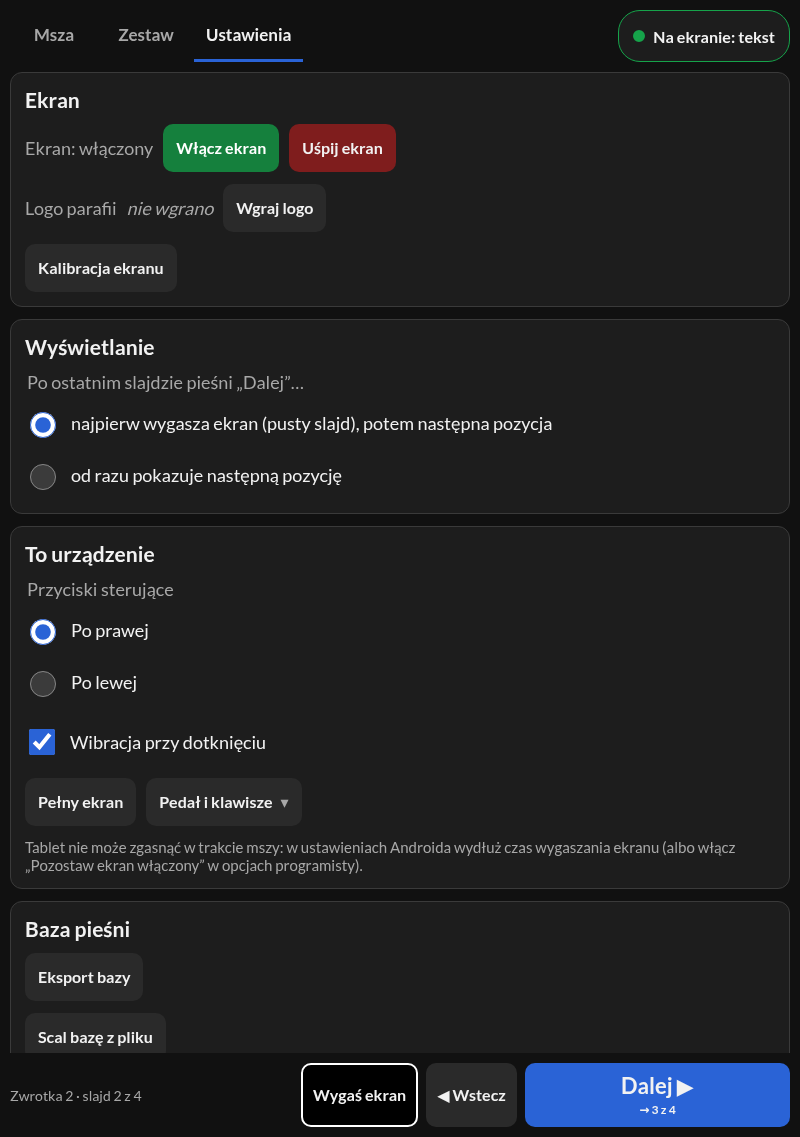
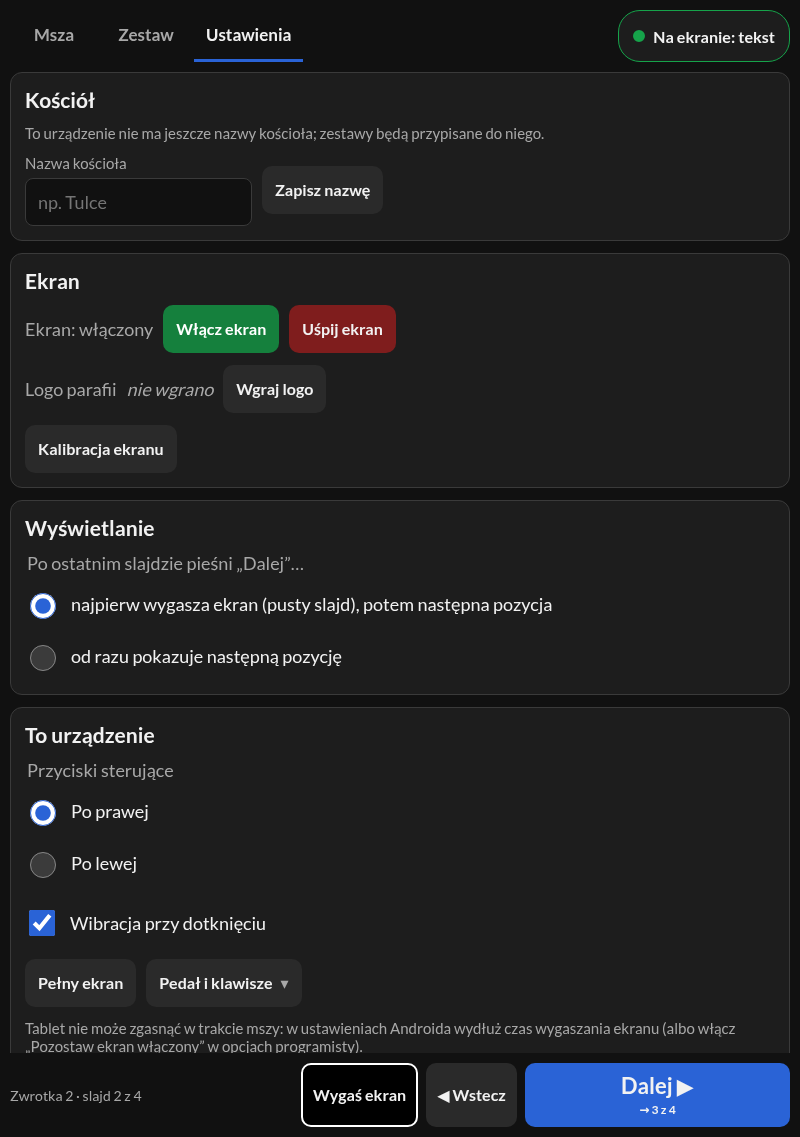
Explain synchronization in the operator guide
The guide gains a section on the library file: one kind of file in any
direction, what travels, which version is shown, reviews, deletions and
set dates; preparing sets at home and the Kościół setting are described
and the screenshots are new. In the remote, Ustawienia → Baza pieśni
becomes Synchronizacja with "Zapisz plik" and "Wczytaj plik", as the
sync plan's section 8 describes.

Changed region(s): [[0.0312, 0.0616, 0.9062, 0.7696], [0.0312, 0.8004, 0.9062, 0.9235]]

diff --git a/apps/remote/src/messages.rs b/apps/remote/src/messages.rs
@@ -316,8 +316,9 @@ pub fn pl(msg: Msg) -> &'static str {
         Msg::TabLive => "Msza",
         Msg::TabSongs => "Pieśni",
         Msg::LibraryHint => {
-            "Wyszukaj pieśń, żeby ją poprawić, albo dopisz nową. Gotową bazę zapisz \
-             w Ustawieniach (Eksport bazy) i scal na urządzeniu w kościele (Scal bazę z pliku)."
+            "Wyszukaj pieśń, żeby ją poprawić, albo dopisz nową. Gotowe pieśni i zestawy zapisz w \
+             pliku (Ustawienia → Synchronizacja → Zapisz plik) i wczytaj go na urządzeniu w kościele \
+             (Wczytaj plik)."
         }
         Msg::DiscardTitle => "Odrzucić zmiany?",
         Msg::DiscardHint => "Pieśń ma niezapisane zmiany. Po zamknięciu przepadną.",
@@ -344,7 +345,7 @@ pub fn pl(msg: Msg) -> &'static str {
         Msg::Line => "Linia",
         Msg::SectionDisplay => "Wyświetlanie",
         Msg::SectionDevice => "To urządzenie",
-        Msg::SectionLibrary => "Baza pieśni",
+        Msg::SectionLibrary => "Synchronizacja",
         Msg::SectionAbout => "O programie",
         Msg::EndOfItemLabel => "Po ostatnim slajdzie pieśni „Dalej”…",
         Msg::EndGap => "najpierw wygasza ekran (pusty slajd), potem następna pozycja",
@@ -496,7 +497,7 @@ pub fn pl(msg: Msg) -> &'static str {
         Msg::SetsOfChurch => "Zestawy kościoła",
         Msg::ChooseChurch => "Wybierz kościół",
         Msg::NoChurchesHere => {
-            "Wczytaj plik z kościoła (Ustawienia → Baza pieśni → Scal bazę z pliku), żeby przygotowywać \
+            "Wczytaj plik z kościoła (Ustawienia → Synchronizacja → Wczytaj plik), żeby przygotowywać \
              jego zestawy. Zestaw zrobiony przed wyborem kościoła pokaże się w każdym kościele."
         }
         Msg::SetReviewLine => "Ten zestaw zmieniono w dwóch miejscach. Porównaj wersje",
@@ -533,14 +534,14 @@ pub fn pl(msg: Msg) -> &'static str {
         Msg::InvalidPin => "PIN musi mieć od 6 do 12 cyfr",
         Msg::PinAlreadySet => "PIN został już ustawiony na innym urządzeniu – połącz się, wpisując go",
         Msg::ImportFailed => "Import nie powiódł się – czy to plik ZIP z folderem OpenSong?",
-        Msg::ExportLibrary => "Eksport bazy",
-        Msg::MergeLibrary => "Scal bazę z pliku",
+        Msg::ExportLibrary => "Zapisz plik",
+        Msg::MergeLibrary => "Wczytaj plik",
         Msg::MergeChecking => "Sprawdzanie pliku…",
-        Msg::MergeWouldDo => "Sprawdzono plik. Po scaleniu:",
-        Msg::MergeConfirm => "Scal",
-        Msg::Merging => "Scalanie…",
-        Msg::MergeDone => "Scalono.",
-        Msg::MergeFailed => "Scalanie nie powiodło się – czy to plik .sursum z tej wersji programu?",
+        Msg::MergeWouldDo => "Sprawdzono plik. Po wczytaniu:",
+        Msg::MergeConfirm => "Wczytaj",
+        Msg::Merging => "Wczytywanie…",
+        Msg::MergeDone => "Wczytano.",
+        Msg::MergeFailed => "Wczytanie nie powiodło się – czy to plik .sursum z tej wersji programu?",
         Msg::Calibrate => "Kalibracja ekranu",
         Msg::CalibrationTitle => "Kalibracja ekranu",
         Msg::CalibrationHelp => {

diff --git a/apps/remote/src/songs.rs b/apps/remote/src/songs.rs
@@ -1,7 +1,7 @@
 // SPDX-License-Identifier: GPL-3.0-or-later
 //! The Pieśni view of the desktop program's library (ADR 0020): there is no screen and no
 //! service at home, only songs. Search, open a song in the editor, or write a new one; the
-//! finished library goes to the church as a file (Ustawienia → Eksport bazy).
+//! finished library goes to the church as a file (Ustawienia → Synchronizacja → Zapisz plik).
 
 use leptos::prelude::*;
 use sursum_protocol::{RemoteState, SongSummary};

diff --git a/apps/remote/src/settings/library.rs b/apps/remote/src/settings/library.rs
@@ -1,6 +1,6 @@
 // SPDX-License-Identifier: GPL-3.0-or-later
-//! Baza pieśni: a copy of the whole library (any paired remote), merging another church's file
-//! and importing from OpenSong.
+//! Synchronizacja: the library file (songs, churches, every church's sets and their pictures,
+//! ADR 0025) to save and to load on another device, and importing from OpenSong.
 
 use leptos::prelude::*;
 

diff --git a/docs/operator-guide-pl.md b/docs/operator-guide-pl.md
@@ -132,10 +132,10 @@ Ref.
 - Kto zna OpenSong, może pisać jak dotąd: `[V1]`, `[C]`, `[B]`. Kolejność sekcji (np. `V1 C V2 C`)
   jest w części **Zaawansowane**.
 
-## Pieśni przygotowane w domu
+## Przygotowanie w domu
 
-Pieśni można przygotować na własnym komputerze z Windows (na Linuksie też działa) programem
-**Sursum** i przynieść je do kościoła w jednym pliku. Program działa bez internetu i bez
+Pieśni i zestawy można przygotować na własnym komputerze z Windows (na Linuksie też działa)
+programem **Sursum** i przynieść je do kościoła w jednym pliku. Program działa bez internetu i bez
 urządzenia z kościoła; nie wyświetla niczego na ekranie, służy do pieśni i zestawów.
 
 1. Pobierz plik `sursum-<wersja>-windows-x86_64.exe` (od osoby, która opiekuje się sursum w
@@ -150,33 +150,54 @@ urządzenia z kościoła; nie wyświetla niczego na ekranie, służy do pieśni 
    W zakładce Zestaw przygotujesz zestaw na mszę: najpierw w polu **Zestawy kościoła** wybierz
    kościół (program zna kościoły z plików wczytanych z kościoła), potem pracujesz jak na pilocie.
    Zestaw trafi do wybranego kościoła razem z plikiem; w drugim kościele będzie niewidoczny.
-4. Gdy skończysz: **Ustawienia → Baza pieśni → Eksport bazy**. Zapisz plik
+4. Gdy skończysz: **Ustawienia → Synchronizacja → Zapisz plik**. Zapisz plik
    `biblioteka.sursum` (np. na pendrive albo wyślij go sobie pocztą).
-5. W kościele, na pilocie: **Ustawienia → Baza pieśni → Scal bazę z pliku** i wybierz ten
-   plik. Najpierw zobaczysz, co się zmieni; dopiero **Scal** zapisuje. Ten sam plik można
-   wczytać wiele razy i nic się nie zdubluje. Jeśli tę samą pieśń zmieniono i w domu, i w
-   kościele, zostaje jedna pieśń: pokazana jest wersja, którą zmieniano więcej razy, a druga
-   czeka na przejrzenie (zobacz [Pieśni do przejrzenia](#pieśni-do-przejrzenia)).
+5. W kościele, na pilocie: **Ustawienia → Synchronizacja → Wczytaj plik** i wybierz ten plik.
+   Najpierw zobaczysz, co się zmieni; dopiero **Wczytaj** zapisuje (rozdział
+   [Synchronizacja](#synchronizacja)).
 
-Chcesz w domu poprawiać pieśni, które są już w kościele? Najpierw zrób **Eksport bazy** na
-pilocie w kościele i **Scal bazę z pliku** w programie w domu; wtedy masz w domu te same pieśni.
+Chcesz w domu poprawiać pieśni albo zestawy, które są już w kościele? Najpierw **Zapisz plik**
+na pilocie w kościele i **Wczytaj plik** w programie w domu; wtedy masz w domu to samo co w
+kościele.
 
 Pieśni w domu leżą w folderze `%LOCALAPPDATA%\sursum` (na Linuksie `~/.local/share/sursum`).
 Program może być uruchomiony tylko raz; jeśli drugie okno mówi „Sursum jest już uruchomiony”,
 poszukaj pierwszego okna na pasku zadań. Gdy coś nie działa, przyda się plik `sursum.log` z
 tego folderu.
 
+## Synchronizacja
+
+Każde urządzenie (w Tulcach, w Gowarzewie, program w domu) ma własną bazę pieśni i zestawów.
+Między nimi wędruje jeden rodzaj pliku, `biblioteka.sursum`: **Zapisz plik** na jednym
+urządzeniu, **Wczytaj plik** na drugim. Kierunek i kolejność są dowolne, a ten sam plik można
+wczytać wiele razy.
+
+- W pliku są wszystkie pieśni, kościoły parafii, zestawy wszystkich kościołów i ich obrazy.
+  Urządzenie w kościele pokazuje tylko zestawy swojego kościoła; zestawy drugiego kościoła
+  przechowuje, żeby przekazać je dalej.
+- Przed zapisem pilot pokazuje, co się zmieni: nowe i zmienione pieśni, zestawy tego kościoła,
+  nowe obrazy. Dopiero **Wczytaj** zapisuje; urządzenie robi przedtem kopię swojej bazy.
+- Nic się nie dubluje. Pieśń poprawiona w jednym miejscu jest po wczytaniu poprawiona wszędzie.
+  Starszy plik niczego nie cofa i nie przywraca usuniętej pieśni ani zestawu.
+- Usunięcie wędruje jak każda zmiana, ale nie zabiera ze sobą poprawki zrobionej w tym czasie
+  gdzie indziej: taka pieśń zostaje.
+- Gdy tę samą pieśń albo ten sam zestaw zmieniono w dwóch miejscach, zostaje jeden: wszędzie
+  pokazywana jest wersja zmieniana więcej razy, a druga czeka na przejrzenie (niżej).
+- Wczytanie pliku nigdy nie zmienia tego, co jest na ekranie, ani nie przełącza zestawu.
+- Każdy zestaw ma datę mszy (można ją pominąć: wtedy jest szkicem na górze listy). Lista
+  zestawów jest uporządkowana według tej daty, tak samo na każdym urządzeniu.
+
 ## Pieśni do przejrzenia
 
-Gdy tę samą pieśń zmieniono w dwóch miejscach (np. w domu i w kościele), po scaleniu pliku
+Gdy tę samą pieśń zmieniono w dwóch miejscach (np. w domu i w kościele), po wczytaniu pliku
 zostaje jedna pieśń. Wszędzie pokazywana jest wersja zmieniana więcej razy, a druga czeka na
 decyzję. W zakładce **Zestaw** (w programie na komputerze: **Pieśni**) pojawia się wtedy żółty
 napis **Pieśni do przejrzenia: 1**, a w wynikach wyszukiwania znaczek „do przejrzenia”.
 
 Dotknij napisu, wybierz pieśń i porównaj obie wersje. **Zostaw tę** pod wybraną wersją kończy
 przegląd: ta wersja zostaje, druga znika. Jeśli każda wersja ma coś dobrego, zostaw jedną i
-popraw ją potem w edytorze. Do następnego scalenia przegląd obowiązuje tylko na tym urządzeniu;
-po wymianie pliku znika też w drugim kościele. Przeglądu nie trzeba robić od razu: do tego czasu
+popraw ją potem w edytorze. Do następnej wymiany pliku przegląd obowiązuje tylko na tym
+urządzeniu; potem znika też w drugim kościele. Przeglądu nie trzeba robić od razu: do tego czasu
 oba kościoły pokazują ten sam tekst.
 
 Tak samo z zestawem zmienionym w dwóch miejscach (np. w domu i w kościele w czasie mszy):
@@ -210,13 +231,15 @@ spróbuj za chwilę”). To normalne.
 
 ![Zakładka Ustawienia](images/remote/tablet-ustawienia.png)
 
+- **Kościół**: nazwa kościoła tego urządzenia (zestawy urządzenia należą do niego) i, jeśli
+  inne urządzenie wpisało tę nazwę inaczej, wybór kościoła znanego z pliku.
 - **Ekran**: zasilanie projektora lub monitora, **Logo parafii**, **Kalibracja ekranu**.
 - **Wyświetlanie**: czy po ostatnim slajdzie pieśni najpierw jest pusty ekran (domyślnie), czy od
   razu następna pozycja. Dotyczy wszystkich pilotów.
 - **To urządzenie**: strona przycisków (prawa lub lewa), wibracja, **Pełny ekran** (chowa paski
   przeglądarki), **Pedał i klawisze**.
-- **Baza pieśni**: **Eksport bazy** (same pieśni, do wymiany z drugim kościołem), **Scal bazę
-  z pliku**, **Import z OpenSong (ZIP)**.
+- **Synchronizacja**: **Zapisz plik** i **Wczytaj plik** (pieśni i zestawy, do wymiany z drugim
+  kościołem i z programem w domu), **Import z OpenSong (ZIP)**.
 - **Dane urządzenia**: **Pobierz kopię** (wszystko: pieśni, zestawy, logo, obrazy, kalibracja
   i ustawienia), **Przywróć z kopii** i **Usuń nieużywane obrazy**.
 - **Urządzenia** i **O programie** (wersja, **Zainstaluj aktualizację**).
@@ -232,14 +255,8 @@ obsługują ekranu.
   do konkretnych plików. Ponowny import aktualizuje tylko pieśni zmienione w OpenSong i nigdy nie
   cofa poprawek zrobionych w sursum ani nie przywraca usuniętych pieśni. Jeśli pieśń zmieniono i
   w OpenSong, i w sursum, zostają obie wersje i pieśń trafia do przejrzenia.
-- **Eksport bazy** / **Scal bazę z pliku**: wymiana pieśni i zestawów między kościołami. Plik
-  `.sursum` z jednego kościoła scalasz w drugim. Plik zawiera też zestawy wszystkich kościołów
-  razem z ich obrazami; każde urządzenie pokazuje tylko zestawy swojego kościoła, a pozostałe
-  przechowuje i przekazuje dalej. Najpierw zobaczysz, co się zmieni, i dopiero **Scal**
-  zapisuje. Wczytanie tego samego albo starszego pliku niczego nie psuje. Gdy tę samą pieśń
-  zmieniono w obu miejscach, zostaje jedna pieśń z wersją zmienianą więcej razy, a druga wersja
-  czeka przy niej na przejrzenie; raport scalania wymienia takie pieśni. Pliki z wcześniejszych
-  wersji programu nie są wczytywane.
+- **Zapisz plik** / **Wczytaj plik**: zobacz [Synchronizacja](#synchronizacja). Pliki z
+  wcześniejszych wersji programu nie są wczytywane.
 - **Kalibracja ekranu**: tylko poza mszą. Po potwierdzeniu na ekranie w kościele pojawia się
   siatka z literami i cyframi. Przeciągnij palcem po podglądzie w pilocie, żeby zaznaczyć strefę
   bez tekstu, np. ciemną powierzchnię lub przeszkodę (czerwona strefa); tekst będzie ją omijał, a

diff --git a/docs/roadmap.md b/docs/roadmap.md
@@ -102,7 +102,10 @@ packages: [plan-sync.md](plan-sync.md).
   "Zestawy kościoła" chooses the church (`UseChurch` there only changes which sets are listed and
   whose new sets are); "Pokaż teraz" and "Przywróć z kopii" are not offered; server and e2e
   tests (a set prepared at home reaches its church and stays hidden in the other)
-- [ ] Y1.8 Operator guide
+- [x] Y1.8 Operator guide (2026-11-20): the section Synchronizacja (one file, any direction;
+  what travels; more changes win; review; deletions; dates), preparing sets at home, the
+  Kościół setting; Ustawienia → Baza pieśni renamed Synchronizacja with "Zapisz plik" and
+  "Wczytaj plik" (the plan's section 8); new remote screenshots
 
 ## M0 — Skeleton
 
@@ -265,12 +268,12 @@ itself. (All three met on the pilot Pi 5, 2026-11-18; CI-built images remain.)
 ## D1 — Desktop program (ADR 0020)
 
 One program, `sursum`, with the server inside and the remote in its own window: for preparing
-songs at home (export, then "Scal bazę z pliku" in the church) and later for the parish PC.
+songs at home ("Zapisz plik", then "Wczytaj plik" in the church) and later for the parish PC.
 Work packages and the spike's findings: [plan-desktop-and-ipad.md](plan-desktop-and-ipad.md).
 
 - [x] Spike (branch `spike/desktop-shell`, 2026-11-18; merged into `main` as pull request #1 on 2026-11-19): crate `sursum-desktop`; Linux window on GTK 4 + WebKitGTK 6.0 built and run on Fedora 45 (the remote connects and stays connected); Windows window on `tao` + `wry` cross-compiles with `cargo zigbuild` (9.9 MB, GUI subsystem); clippy clean for both targets; `cargo deny` passes with one exception
 - [ ] ⚠ Windows Defender flags the downloaded CI artifact (the ZIP with the unsigned `sursum.exe`) as a virus and deletes it right after the download (2026-11-19). Blocks the guide's download step. To find out: the detection name in Defender's protection history; whether the release's bare `.exe` is flagged too. Ways out: report a false positive to Microsoft (file submission), signing (the ADR 0020 amendment chose unsigned; revisit with an ADR if reporting is not enough)
-- [ ] ⚠ First run on Windows (the program starts, 2026-11-19; the rest not yet reported): the window opens, "Eksport bazy" saves a file, "Scal bazę z pliku" opens the file picker, closing the window ends the process; WebView2 present on the parish PC's Windows 10
+- [ ] ⚠ First run on Windows (the program starts, 2026-11-19; the rest not yet reported): the window opens, "Zapisz plik" saves a file, "Wczytaj plik" opens the file picker, closing the window ends the process; WebView2 present on the parish PC's Windows 10
 - [ ] ⚠ Linux by hand: the "save as" dialog of the export, the file picker of the merge, a second start only raises the first window
 - [x] The window behaves like a program: the web view's data in `webview/` beside the database, `sursum.log` (previous run kept as `sursum.previous.log`), a Polish message page instead of a silent exit (server failed, another copy running), one copy at a time through `sursum.lock` (Linux also hands a second start to the first window over D-Bus), links outside the server open in the system browser; checked on Fedora 45 (first start, second start, lock held by another process)
 - [x] MSVC target on a Windows runner, one `sursum.exe` (ADR 0020 amendment; the WebView2 SDK is BSD-3-Clause, its license is on `/licenses`, which also lists the desktop program's crates and links back to the remote): CI job `desktop-windows` with a non-blocking smoke test (the remote connects, read from `sursum.log`), artifact per commit (4.8 MB zipped), attached to releases; first run on GitHub 2026-11-18 (PR #1): built with MSVC on `windows-2025`, and the smoke test passed there, the remote in the WebView2 window connected to the server; first try on a real Windows (2026-11-19): "VCRUNTIME140_1.dll not found", because MSVC links the C runtime dynamically and the runner has the Visual C++ Redistributable; now linked statically (`.cargo/config.toml`, `+crt-static`) and CI fails if `sursum.exe` imports `vcruntime`/`msvcp`/`WebView2Loader` DLLs; with that it starts on a real Windows without errors (2026-11-19)

diff --git a/docs/plan-sync.md b/docs/plan-sync.md
@@ -335,7 +335,7 @@ Each is one pull request.
 | Y1.6b | Sets and pictures in the file; report lines; streamed merge upload ✓ | Y1.6a |
 | Y1.6c | Set review and its comparison screen ✓ | Y1.6b |
 | Y1.7 | Zestaw view in the desktop program with the church switcher; "Przywróć z kopii" hidden there (it cannot work without a service manager) ✓ | Y1.6 |
-| Y1.8 | Operator guide: Synchronizacja, review, sets at home, dates, "Nowy zestaw z tego"; new screenshots | Y1.3, Y1.7 |
+| Y1.8 | Operator guide: Synchronizacja, review, sets at home, dates, "Nowy zestaw z tego"; new screenshots ✓ | Y1.3, Y1.7 |
 
 ## 12. Second step: "Połącz pieśni"
 
